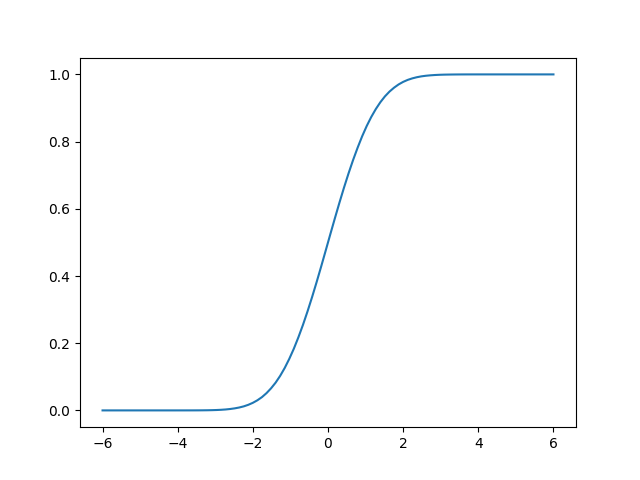
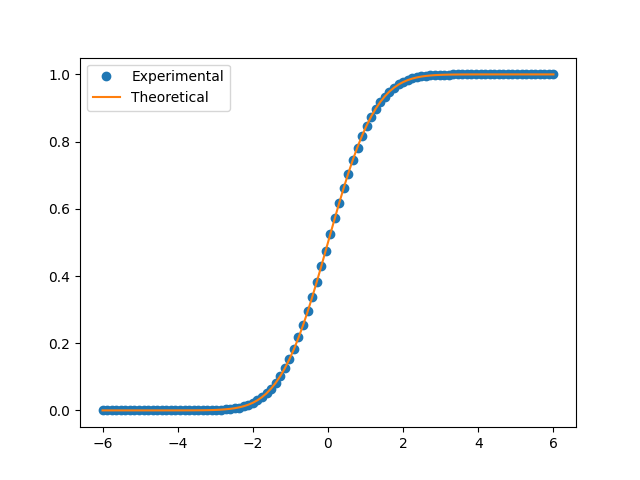
Include theoretical values in figures (not updated in main)

Changed region(s): [[0.5, 0.125, 0.875, 0.5625], [0.1562, 0.5625, 0.5, 0.875], [0.125, 0.125, 0.3438, 0.2188]]

diff --git a/rand_nums/codes/pdf_uni.py b/rand_nums/codes/pdf_uni.py
@@ -8,6 +8,8 @@ arr = np.loadtxt("uni.dat", dtype="double")
 buckets = np.linspace(-2, 3, num=NUM_INTERVALS)
 freqs = []
 
+theoretical = np.where(np.logical_and(buckets > 0, buckets < 1), 1, 0)
+
 for i in range(NUM_INTERVALS):
     freqs.append(np.sum(arr < buckets[i]) / len(arr))
 
@@ -16,6 +18,8 @@ slopes = []
 for i in range(NUM_INTERVALS - 1):
     slopes.append((freqs[i+1] - freqs[i]) / (buckets[i+1] - buckets[i]))
 
-plt.plot(buckets[:-1], slopes)
+plt.plot(buckets[:-1], slopes, 'o', label='Experimental')
+plt.plot(buckets, theoretical, '-', label='Theoretical')
+plt.legend()
 plt.savefig('../figs/pdf_uni.png')
 plt.show()

diff --git a/rand_nums/codes/pdf_gau.py b/rand_nums/codes/pdf_gau.py
@@ -8,6 +8,8 @@ arr = np.loadtxt("gau.dat", dtype="double")
 buckets = np.linspace(-6, 6, num=NUM_INTERVALS)
 freqs = []
 
+theoretical = np.exp(-buckets * buckets / 2) / np.sqrt(2 * np.pi)
+
 for i in range(NUM_INTERVALS):
     freqs.append(np.sum(arr < buckets[i]) / len(arr))
 
@@ -16,6 +18,8 @@ slopes = []
 for i in range(NUM_INTERVALS - 1):
     slopes.append((freqs[i+1] - freqs[i]) / (buckets[i+1] - buckets[i]))
 
-plt.plot(buckets[:-1], slopes)
+plt.plot(buckets[:-1], slopes, 'o', label='Experimental')
+plt.plot(buckets, theoretical, '-', label='Theoretical')
+plt.legend()
 plt.savefig('../figs/pdf_gau.png')
 plt.show()

diff --git a/rand_nums/codes/cdf_gau.py b/rand_nums/codes/cdf_gau.py
@@ -1,4 +1,5 @@
 import numpy as np
+import scipy.special
 import matplotlib.pyplot as plt
 
 NUM_INTERVALS = 100
@@ -8,9 +9,13 @@ arr = np.loadtxt("gau.dat", dtype="double")
 buckets = np.linspace(-6, 6, num=NUM_INTERVALS)
 freqs = []
 
+theoretical = (scipy.special.erf(buckets / np.sqrt(2)) + 1) / 2
+
 for i in range(NUM_INTERVALS):
     freqs.append(np.sum(arr < buckets[i]) / len(arr))
 
-plt.plot(buckets, freqs)
+plt.plot(buckets, freqs, 'o', label='Experimental')
+plt.plot(buckets, theoretical, '-', label='Theoretical')
+plt.legend()
 plt.savefig('../figs/cdf_gau.png')
 plt.show()

diff --git a/rand_nums/codes/cdf_uni.py b/rand_nums/codes/cdf_uni.py
@@ -8,9 +8,14 @@ arr = np.loadtxt("uni.dat", dtype="double")
 buckets = np.linspace(-2, 3, num=NUM_INTERVALS)
 freqs = []
 
+theoretical = np.where(buckets < 0, 0, buckets)
+theoretical = np.where(buckets < 1, theoretical, 1)
+
 for i in range(NUM_INTERVALS):
     freqs.append(np.sum(arr < buckets[i]) / len(arr))
 
-plt.plot(buckets, freqs)
+plt.plot(buckets, freqs, 'o', label='Experimental')
+plt.plot(buckets, theoretical, '-', label='Theoretical')
+plt.legend()
 plt.savefig('../figs/cdf_uni.png')
 plt.show()
